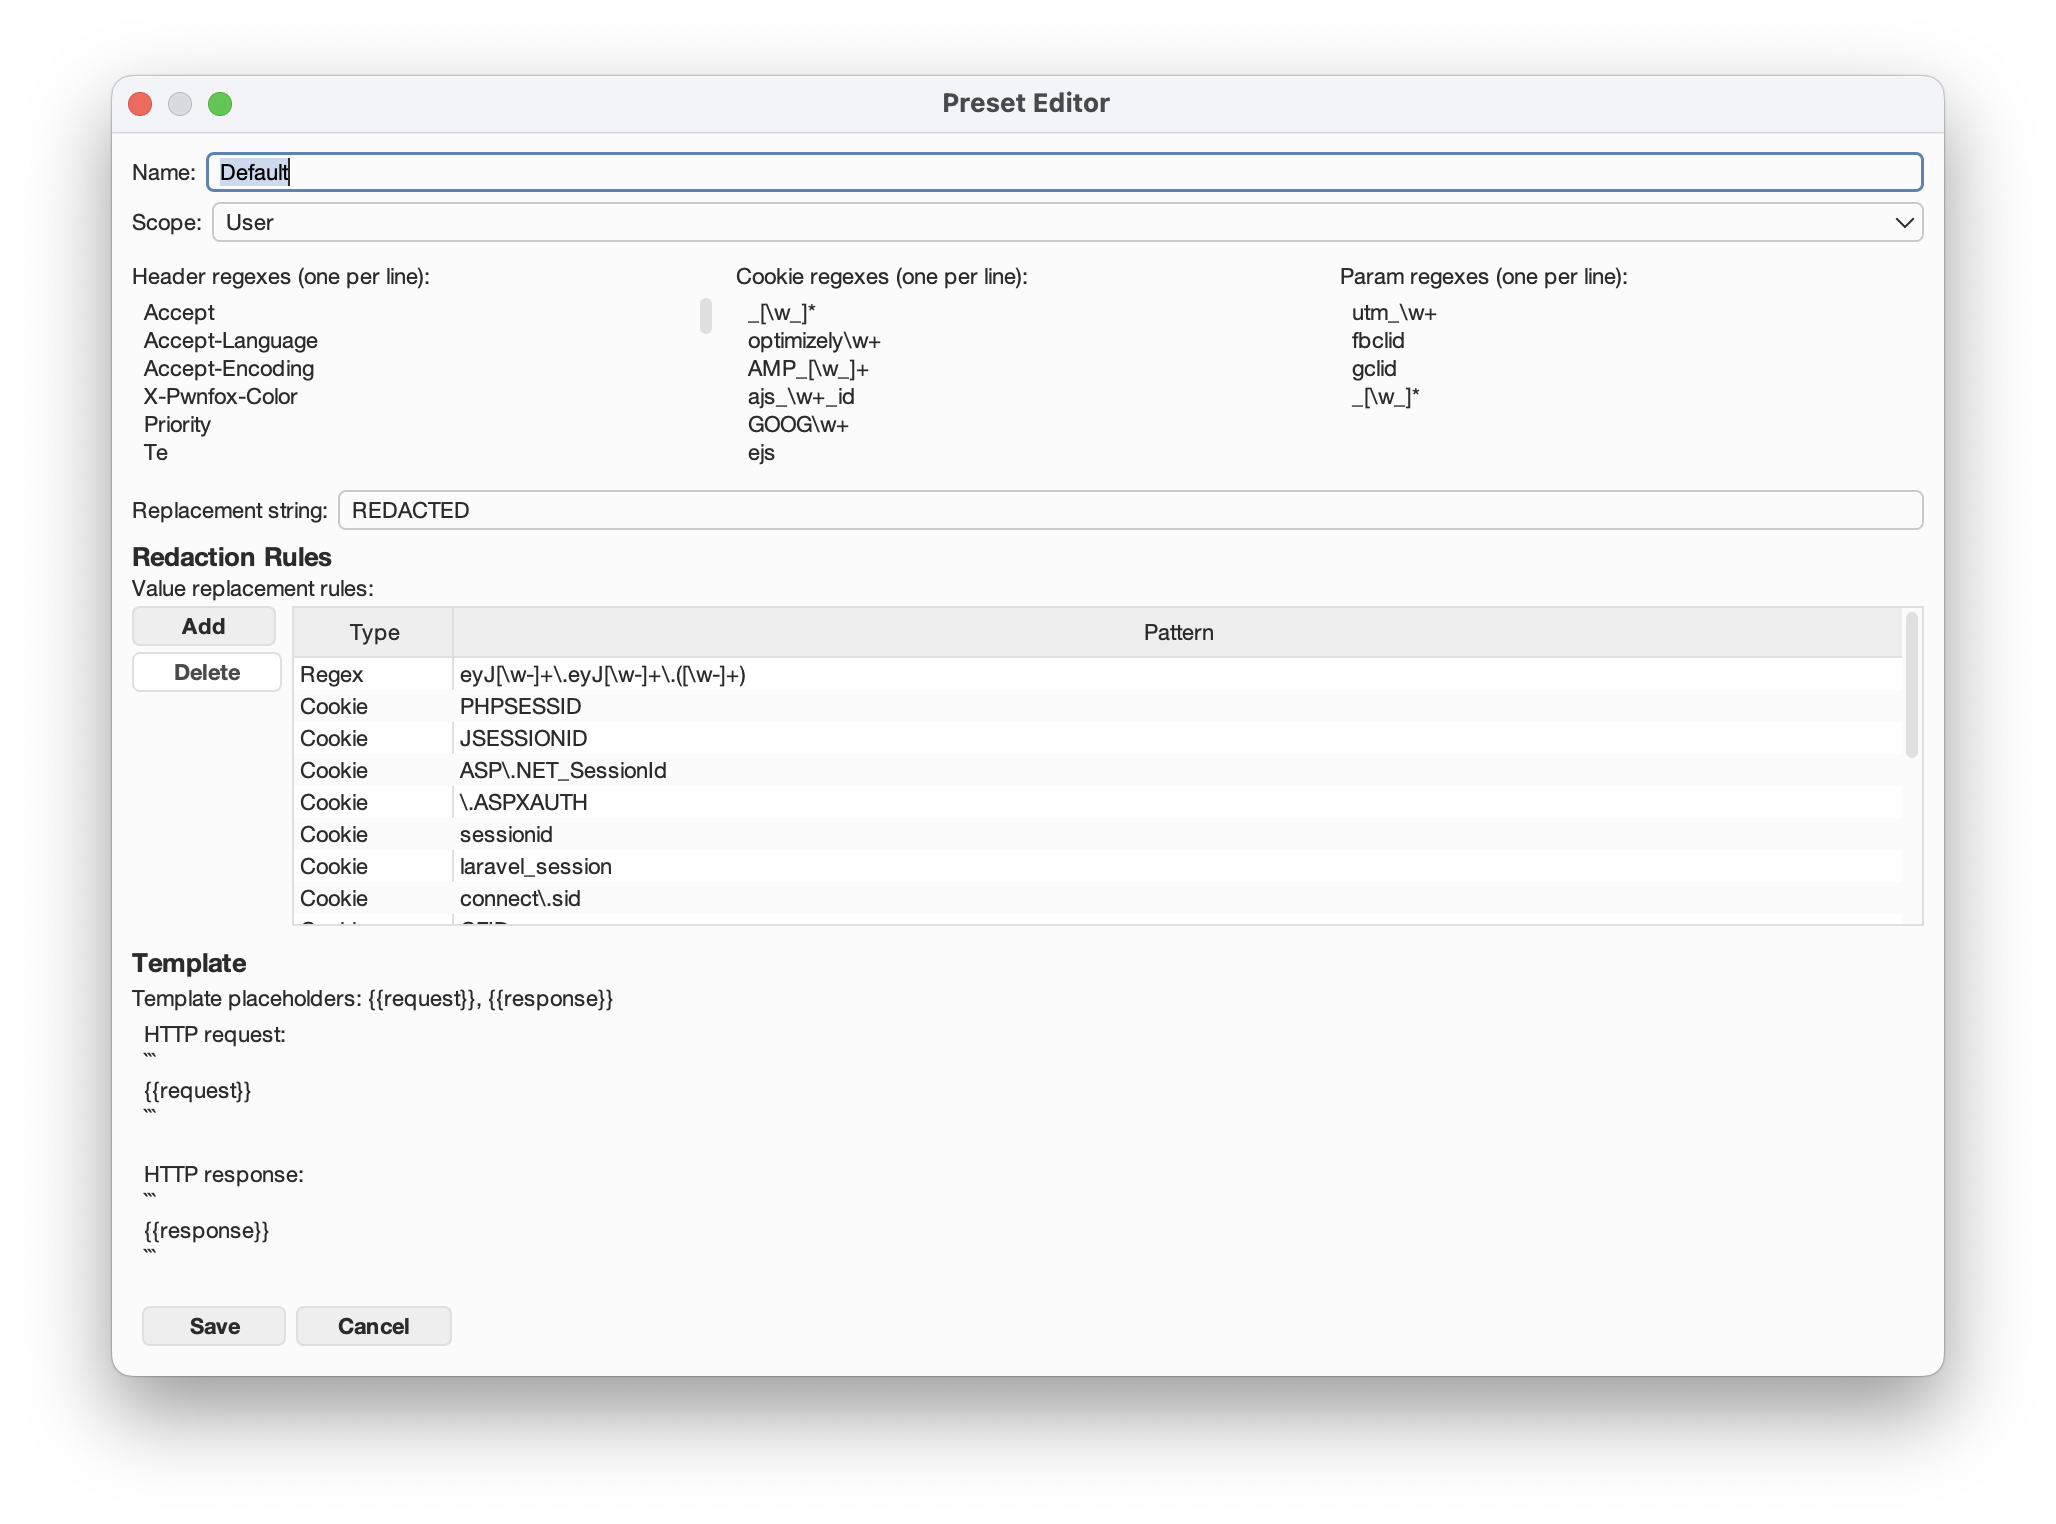
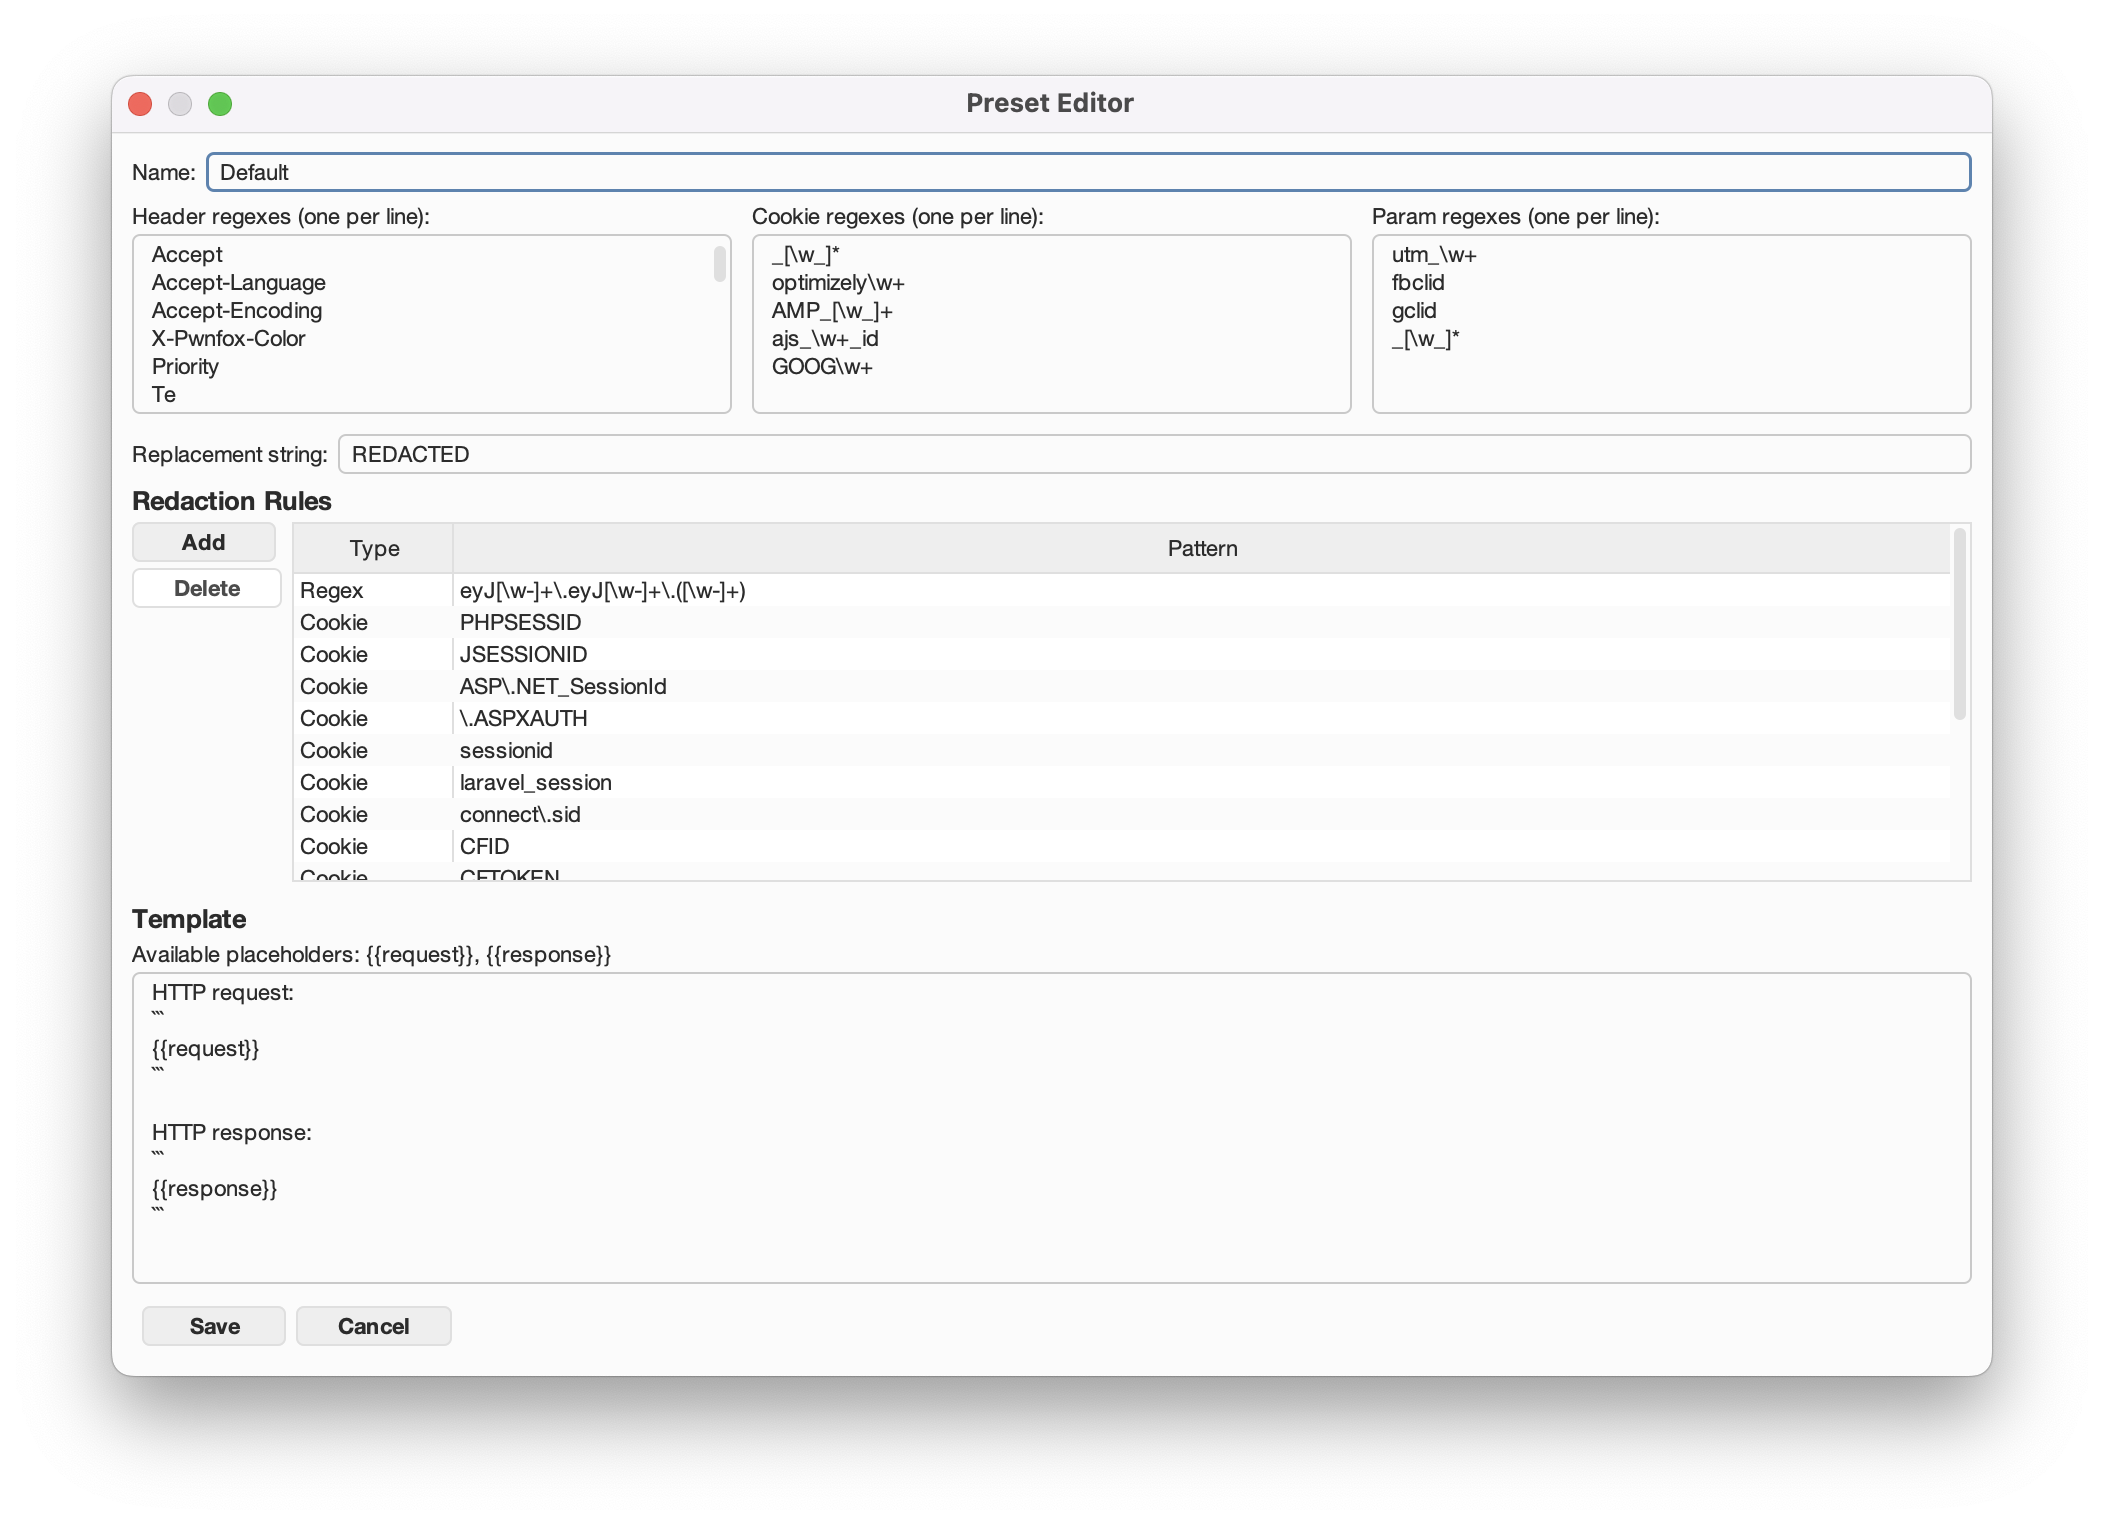
update readme screenshots

diff --git a/README.md b/README.md
@@ -1,19 +1,28 @@
 # Copy As Snippet for Burp Suite
 
-Are you tired of removing junk headers and cookies from the PoCs you copy from Burp? I definitely am, which is why this extension exists!
+Are you tired of removing junk headers and cookies from the PoCs copied from Burp? I know I am!
+
+## Getting started
+1. Install the lastest release of the extension.
+2. Go to Burp Settings > Extensions > Copy as snippet.
+3. Check "Enable keyboard shortcut".
 
 ## Features
+
 - Copy the request/response from the context menu in the text format
   - Automatic junk header/cookie removal
   - HTTP parameter removal (GET, POST forms, JSON)
   - JWTs and sensitive cookies are replaced with `REDACTED` (configurable via extension settings)
 - Configure an editor keyboard shortcut to skip the context menu
-- Supports multiple presets. All presets are shared between projects. If the default preset doesn't scrub all junk headers, you can always create your own!
+- Supports multiple presets
+  - All presets are shared between projects
+  - Preset import/export
 
-**Note**: The default junk header/cookie list is not meant to be universal. For example, you can completely ignore cache-related headers in one PoC, but not in another. Create, use and share presets, and feel free to suggest changes to the default one via GitHub issues!
+**Note**: The default junk header/cookie list is not meant to be universal. For example, you can completely ignore cache-related headers in one PoC, while in another one they will be essential. Create, use and share presets, and feel free to suggest changes via GitHub issues!
+
+### Screenshots
 
 ![Settings view](readme/settings-view.png)
-
 ![Preset editor](readme/preset-editor.png)
 
 ## Building locally
